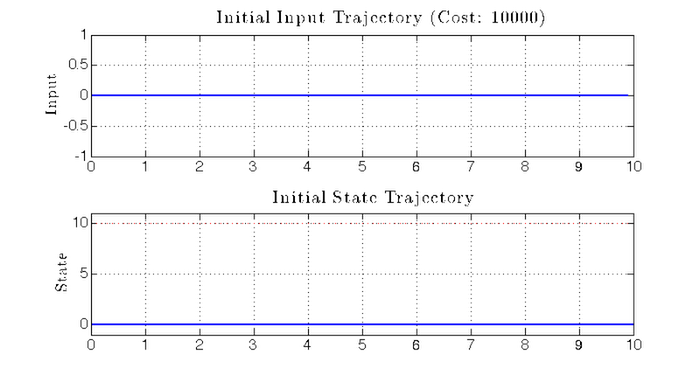
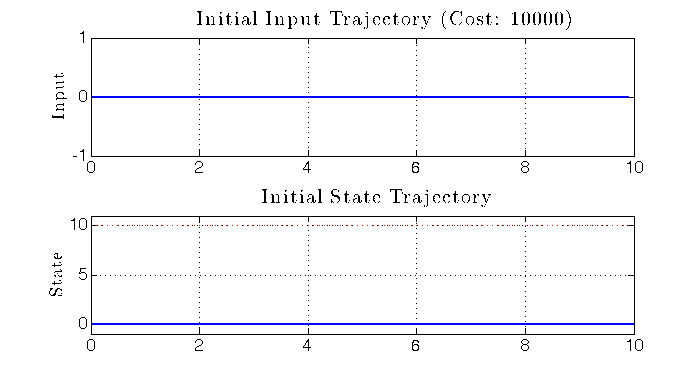
Updated size of figure.

diff --git a/bolzaExamplesOuput/bolzaExamples.html b/bolzaExamplesOuput/bolzaExamples.html
@@ -118,7 +118,7 @@ fprintf(<span class="string">'Final state: %.3f\n'</span>,x(end));
 
 <span class="comment">% Plot</span>
 figure(1)
-set(1,<span class="string">'Position'</span>,[0 0 800 430])
+set(1,<span class="string">'Position'</span>,[0 0 700 375])
 subplot(2,1,1)
 plot(t(1:end-1),uI)
 title([<span class="string">'Initial Input Trajectory (Cost: '</span> num2str(JI) <span class="string">')'</span>])
@@ -136,7 +136,7 @@ ylabel(<span class="string">'State'</span>)
 grid <span class="string">on</span>
 
 figure(2)
-set(2,<span class="string">'Position'</span>,[100 100 800 700])
+set(2,<span class="string">'Position'</span>,[100 100 700 375])
 subplot(3,1,1)
 plot(t(1:end-1),u)
 title([<span class="string">'Final Input Trajectory (Cost: '</span> num2str(JF) <span class="string">')'</span>])
@@ -160,7 +160,7 @@ ylabel(<span class="string">'Costate'</span>)
 grid <span class="string">on</span>
 
 figure(3)
-set(3,<span class="string">'Position'</span>,[200 200 800 700])
+set(3,<span class="string">'Position'</span>,[200 200 700 375])
 subplot(2,1,1)
 plot(JTape)
 xlim([1 numel(gammaTape)])
@@ -387,7 +387,7 @@ fprintf('Final state: %.3f\n',x(end));
 
 % Plot
 figure(1)
-set(1,'Position',[0 0 800 430])
+set(1,'Position',[0 0 700 375])
 subplot(2,1,1)
 plot(t(1:end-1),uI)
 title(['Initial Input Trajectory (Cost: ' num2str(JI) ')'])
@@ -405,7 +405,7 @@ ylabel('State')
 grid on
 
 figure(2)
-set(2,'Position',[100 100 800 700])
+set(2,'Position',[100 100 700 375])
 subplot(3,1,1)
 plot(t(1:end-1),u)
 title(['Final Input Trajectory (Cost: ' num2str(JF) ')'])
@@ -429,7 +429,7 @@ ylabel('Costate')
 grid on
 
 figure(3)
-set(3,'Position',[200 200 800 700])
+set(3,'Position',[200 200 700 375])
 subplot(2,1,1)
 plot(JTape)
 xlim([1 numel(gammaTape)])

diff --git a/bolzaExamples.m b/bolzaExamples.m
@@ -84,7 +84,7 @@ fprintf('Final state: %.3f\n',x(end));
 
 % Plot
 figure(1)
-set(1,'Position',[0 0 800 430])
+set(1,'Position',[0 0 700 375])
 subplot(2,1,1)
 plot(t(1:end-1),uI)
 title(['Initial Input Trajectory (Cost: ' num2str(JI) ')'])
@@ -102,7 +102,7 @@ ylabel('State')
 grid on
 
 figure(2)
-set(2,'Position',[100 100 800 700])
+set(2,'Position',[100 100 700 375])
 subplot(3,1,1)
 plot(t(1:end-1),u)
 title(['Final Input Trajectory (Cost: ' num2str(JF) ')'])
@@ -126,7 +126,7 @@ ylabel('Costate')
 grid on
 
 figure(3)
-set(3,'Position',[200 200 800 700])
+set(3,'Position',[200 200 700 375])
 subplot(2,1,1)
 plot(JTape)
 xlim([1 numel(gammaTape)])
